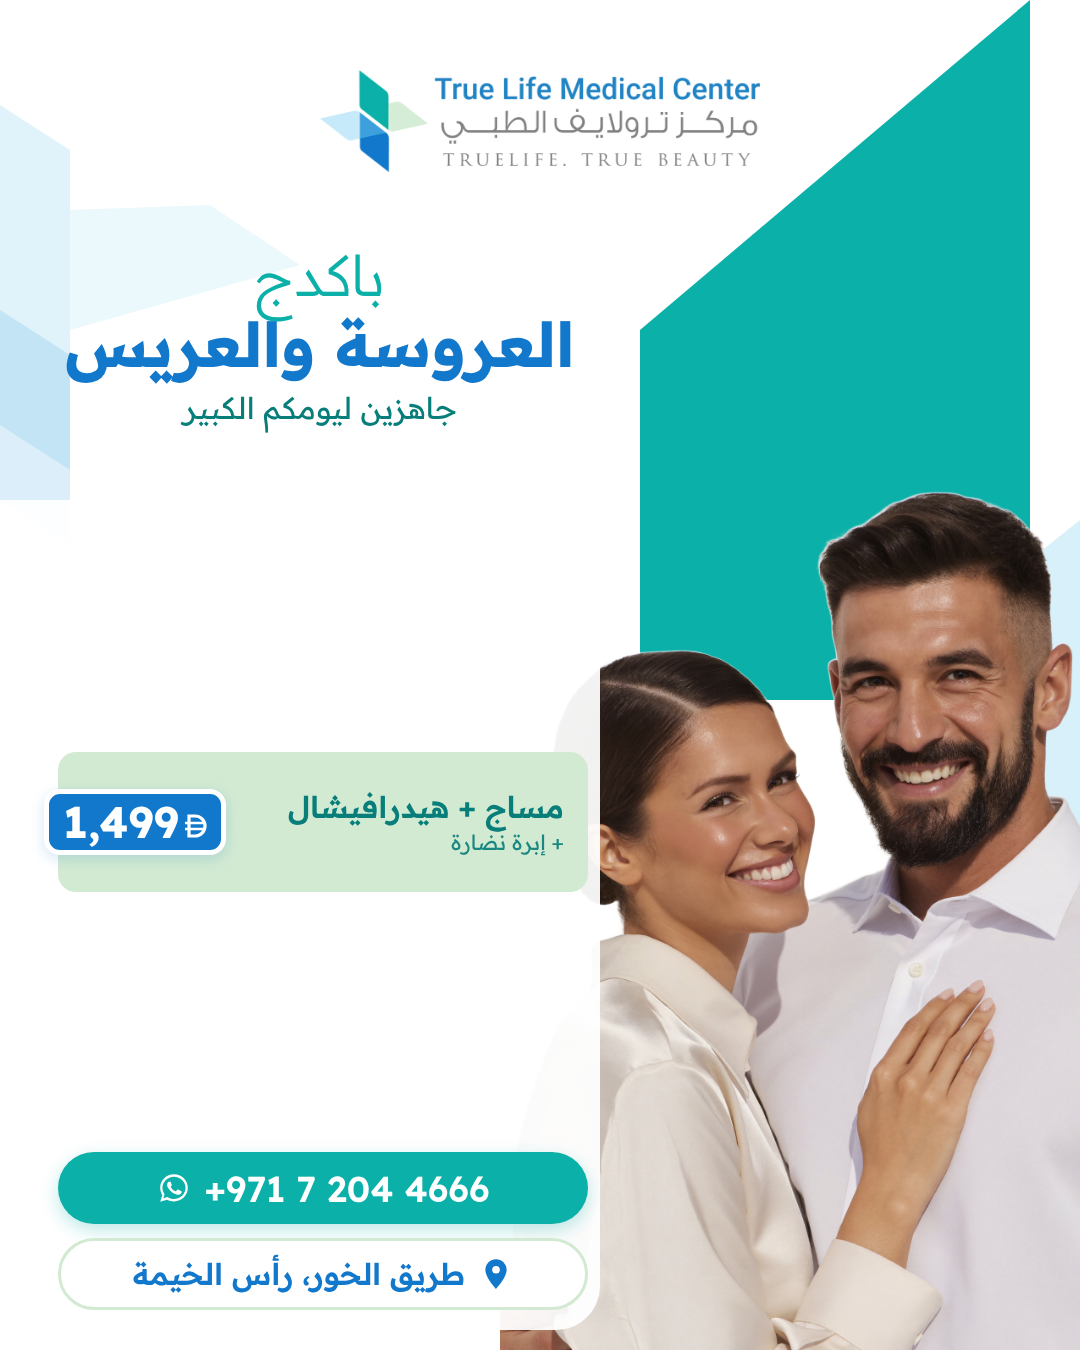
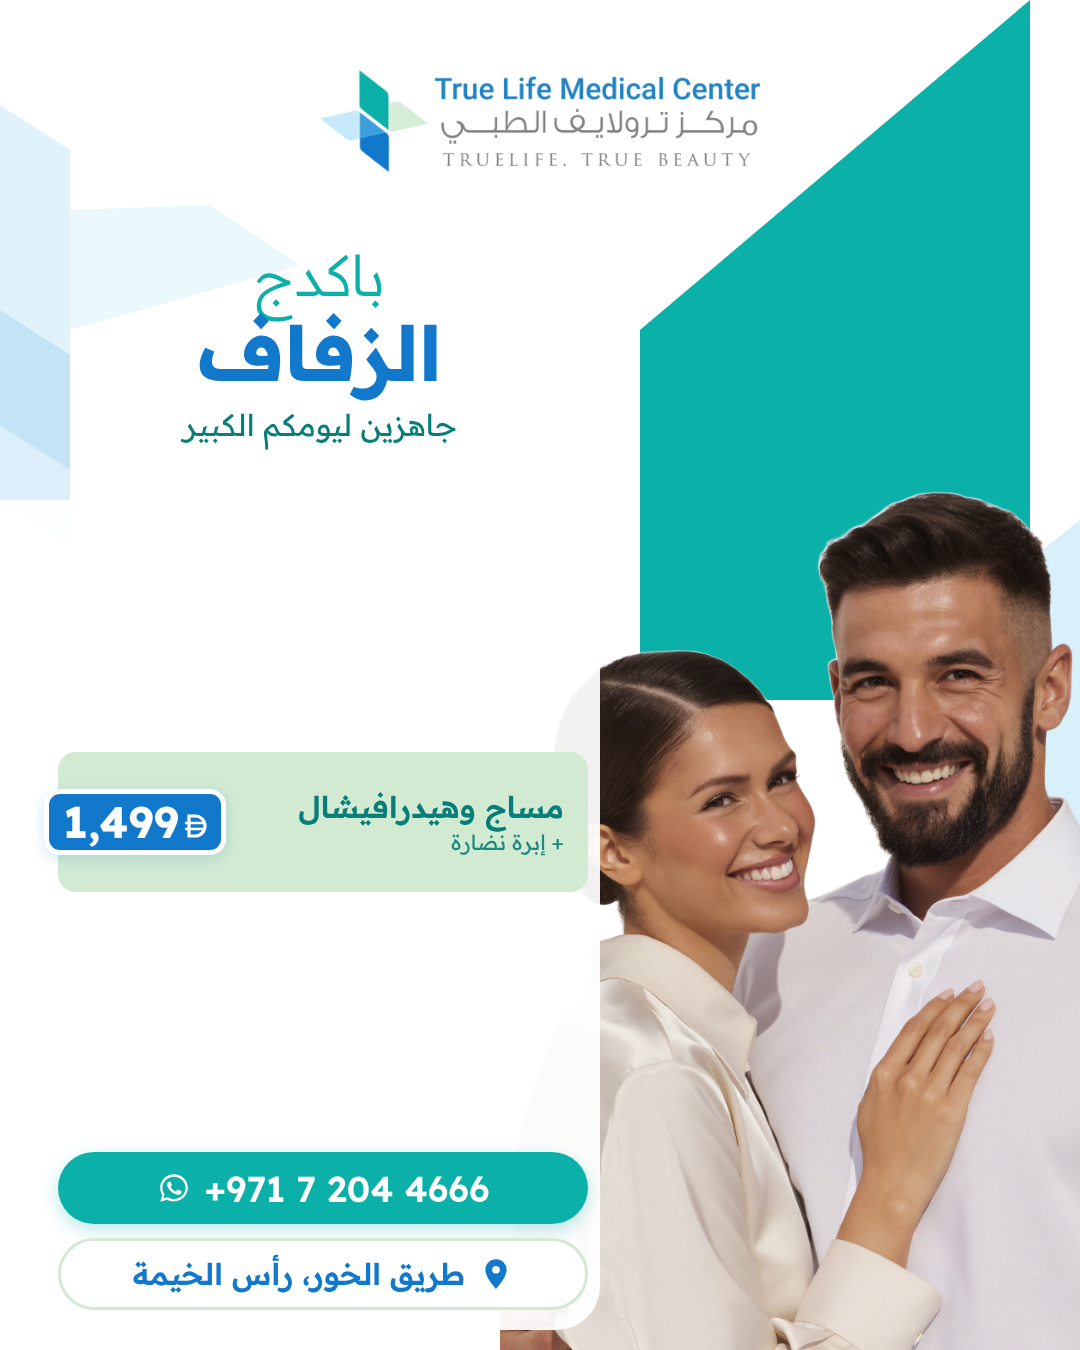
Rename bride & groom offer to wedding package
Claude-Session: https://claude.ai/code/session_01EZd6nkjhojbY1JhgPgko2h

Changed region(s): [[0.0611, 0.2178, 0.55, 0.3422], [0.275, 0.5911, 0.4583, 0.6222]]

diff --git a/designs/offers/bride_groom_cards.html b/designs/offers/bride_groom_cards.html
@@ -50,11 +50,11 @@ body{font-family:'Readex Pro',sans-serif;position:relative;direction:rtl}
  html,body{height:auto;overflow:visible}</style></head><body><section class="slide" id="c2"><svg class="bg" viewBox="0 0 1080 1350"><polygon points="1080,105 1010,150 1010,470 1080,425" fill="#C6EAF6" opacity=".55"/><polygon points="480,360 50,0 50,820 480,820" fill="#0BB0A8"/><polygon points="50,560 0,520 0,1100 50,1100" fill="#C6EAF6" opacity=".7"/></svg><img class="c-model" src="model_bride_groom.png">
 <img class="logo" style="left:auto;right:60px;transform:none;width:360px" src="../brand/TL_logo_primary_1024x237.png">
 <div class="num" style="color:#fff;z-index:2">2/3</div>
-<div class="c-col"><span class="c-tag">العروسة والعريس</span><div class="c-name">مساج + هيدرافيشال</div><div class="c-sub">+ إبرة نضارة</div>
+<div class="c-col"><span class="c-tag">باكدج الزفاف</span><div class="c-name">مساج وهيدرافيشال</div><div class="c-sub">+ إبرة نضارة</div>
 <div class="c-ben">إطلالة مشرقة واسترخاء قبل اليوم الكبير</div><div class="c-price"><b>1,499</b><svg viewBox="0 0 22 24"><path d="M4 2v20h6a10 10 0 0 0 0-20H4z" fill="none" stroke="#fff" stroke-width="3.2"/><path d="M0 9h20M0 15h20" stroke="#fff" stroke-width="2.4"/></svg></div></div>
-<div class="c-cta"><div class="chip wa" style="direction:rtl;font-size:38px">احجزي الآن</div></div></section><section class="slide book" id="c3">
+<div class="c-cta"><div class="chip wa" style="direction:rtl;font-size:38px">احجزوا الآن</div></div></section><section class="slide book" id="c3">
 <img class="logo" src="../brand/TL_logo_white_1024x237.png" style="top:110px">
 <div class="num" style="color:var(--ice)">3/3</div>
-<div class="t">احجزي موعدك</div><div class="s">تواصل معنا على واتساب ونرتب لك الموعد المناسب</div>
-<div class="list"><div class="li"><span>مساج + هيدرافيشال</span><b>1,499 AED</b></div></div>
+<div class="t">احجزوا موعدكم</div><div class="s">تواصل معنا على واتساب ونرتب لك الموعد المناسب</div>
+<div class="list"><div class="li"><span>مساج وهيدرافيشال</span><b>1,499 AED</b></div></div>
 <div class="ft"><div class="chip wa"><svg viewBox="0 0 32 32"><path fill="#fff" d="M16 3C8.8 3 3 8.7 3 15.8c0 2.5.7 4.9 2 6.9L3 29l6.5-2c1.9 1 4.1 1.6 6.5 1.6 7.2 0 13-5.7 13-12.8S23.2 3 16 3zm0 23.3c-2.1 0-4.1-.6-5.8-1.7l-.4-.2-3.9 1.2 1.2-3.7-.3-.4a10.4 10.4 0 0 1-1.7-5.7C5.1 10 10 5.3 16 5.3S26.9 10 26.9 15.8 22 26.3 16 26.3zm6-7.8c-.3-.2-1.9-.9-2.2-1-.3-.1-.5-.2-.7.2l-1 1.2c-.2.2-.4.2-.7.1a8.8 8.8 0 0 1-4.4-3.8c-.3-.6.3-.5.9-1.7.1-.2 0-.4 0-.6l-1-2.4c-.3-.6-.5-.5-.7-.5h-.6c-.2 0-.6.1-.9.4-.3.3-1.2 1.1-1.2 2.7s1.2 3.2 1.4 3.4c.2.2 2.4 3.6 5.8 5 2.2.9 3 1 4.1.8.7-.1 1.9-.8 2.2-1.5.3-.7.3-1.4.2-1.5-.1-.2-.3-.3-.6-.4z"/></svg>+971 7 204 4666</div><div class="chip loc"><svg viewBox="0 0 32 32"><path fill="#C6EAF6" d="M16 2a10 10 0 0 0-10 10c0 7.5 10 18 10 18s10-10.5 10-18A10 10 0 0 0 16 2zm0 13.6A3.6 3.6 0 1 1 16 8.4a3.6 3.6 0 0 1 0 7.2z"/></svg>طريق الخور، رأس الخيمة</div></div></section></body></html>

diff --git a/designs/offers/bride_groom.html b/designs/offers/bride_groom.html
@@ -35,9 +35,9 @@ body{font-family:'Readex Pro',sans-serif;position:relative;direction:rtl}
   </svg>
   <img class="model" src="model_bride_groom.png" alt="">
   <img class="logo" src="../brand/TL_logo_primary_1024x237.png" alt="True Life Medical Center">
-  <div class="title"><div class="pre">باكدج</div><div class="main" style="font-size:62px">العروسة والعريس</div><div class="tagline">جاهزين ليومكم الكبير</div></div>
+  <div class="title"><div class="pre">باكدج</div><div class="main" style="font-size:76px">الزفاف</div><div class="tagline">جاهزين ليومكم الكبير</div></div>
   <div class="panel"></div>
-  <div class="rows" style="top:752px"><div class="row" style="min-height:140px"><div class="name" style="font-size:30px">مساج + هيدرافيشال</div><div class="sub">+ إبرة نضارة</div><div class="pill"><b>1,499</b><svg viewBox="0 0 22 24"><path d="M4 2v20h6a10 10 0 0 0 0-20H4z" fill="none" stroke="#fff" stroke-width="3.2"/><path d="M0 9h20M0 15h20" stroke="#fff" stroke-width="2.4"/></svg></div></div></div>
+  <div class="rows" style="top:752px"><div class="row" style="min-height:140px"><div class="name" style="font-size:30px">مساج وهيدرافيشال</div><div class="sub">+ إبرة نضارة</div><div class="pill"><b>1,499</b><svg viewBox="0 0 22 24"><path d="M4 2v20h6a10 10 0 0 0 0-20H4z" fill="none" stroke="#fff" stroke-width="3.2"/><path d="M0 9h20M0 15h20" stroke="#fff" stroke-width="2.4"/></svg></div></div></div>
   <div class="footer">
     <div class="chip wa"><svg viewBox="0 0 32 32"><path fill="#fff" d="M16 3C8.8 3 3 8.7 3 15.8c0 2.5.7 4.9 2 6.9L3 29l6.5-2c1.9 1 4.1 1.6 6.5 1.6 7.2 0 13-5.7 13-12.8S23.2 3 16 3zm0 23.3c-2.1 0-4.1-.6-5.8-1.7l-.4-.2-3.9 1.2 1.2-3.7-.3-.4a10.4 10.4 0 0 1-1.7-5.7C5.1 10 10 5.3 16 5.3S26.9 10 26.9 15.8 22 26.3 16 26.3zm6-7.8c-.3-.2-1.9-.9-2.2-1-.3-.1-.5-.2-.7.2l-1 1.2c-.2.2-.4.2-.7.1a8.8 8.8 0 0 1-4.4-3.8c-.3-.6.3-.5.9-1.7.1-.2 0-.4 0-.6l-1-2.4c-.3-.6-.5-.5-.7-.5h-.6c-.2 0-.6.1-.9.4-.3.3-1.2 1.1-1.2 2.7s1.2 3.2 1.4 3.4c.2.2 2.4 3.6 5.8 5 2.2.9 3 1 4.1.8.7-.1 1.9-.8 2.2-1.5.3-.7.3-1.4.2-1.5-.1-.2-.3-.3-.6-.4z"/></svg>+971 7 204 4666</div>
     <div class="chip loc"><svg viewBox="0 0 32 32"><path fill="#1278CC" d="M16 2a10 10 0 0 0-10 10c0 7.5 10 18 10 18s10-10.5 10-18A10 10 0 0 0 16 2zm0 13.6A3.6 3.6 0 1 1 16 8.4a3.6 3.6 0 0 1 0 7.2z"/></svg>طريق الخور، رأس الخيمة</div>

diff --git a/designs/offers/gen_offer_cards.py b/designs/offers/gen_offer_cards.py
@@ -33,7 +33,7 @@ for o in offers:
     secs = []
     for i, (name, sub, price) in enumerate(o['rows']):
         img = f'<img class="c-product" src="{o["model"]}">' if o.get('product') else f'<img class="c-model" src="{o["model"]}">'
-        cta = 'احجز الآن' if male else 'احجزي الآن'
+        cta = 'احجز الآن' if male else ('احجزوا الآن' if b['gender'] == 'p' else 'احجزي الآن')
         secs.append(f'''<section class="slide" id="c{i+2}">{BG_L}{img}
 <img class="logo" style="left:auto;right:60px;transform:none;width:360px" src="../brand/TL_logo_primary_1024x237.png">
 <div class="num" style="color:#fff;z-index:2">{i+2}/{total}</div>
@@ -44,7 +44,7 @@ for o in offers:
     secs.append(f'''<section class="slide book" id="c{total}">
 <img class="logo" src="../brand/TL_logo_white_1024x237.png" style="top:110px">
 <div class="num" style="color:var(--ice)">{total}/{total}</div>
-<div class="t">{'احجز موعدك' if male else 'احجزي موعدك'}</div><div class="s">تواصل معنا على واتساب ونرتب لك الموعد المناسب</div>
+<div class="t">{'احجز موعدك' if male else ('احجزوا موعدكم' if b['gender'] == 'p' else 'احجزي موعدك')}</div><div class="s">تواصل معنا على واتساب ونرتب لك الموعد المناسب</div>
 <div class="list">{lis}</div>
 <div class="ft"><div class="chip wa">{gen.WA}+971 7 204 4666</div><div class="chip loc">{gen.PIN.replace('#1278CC','#C6EAF6')}طريق الخور، رأس الخيمة</div></div></section>''')
     html = f'''<!doctype html><html lang="ar" dir="rtl"><head><meta charset="utf-8">
